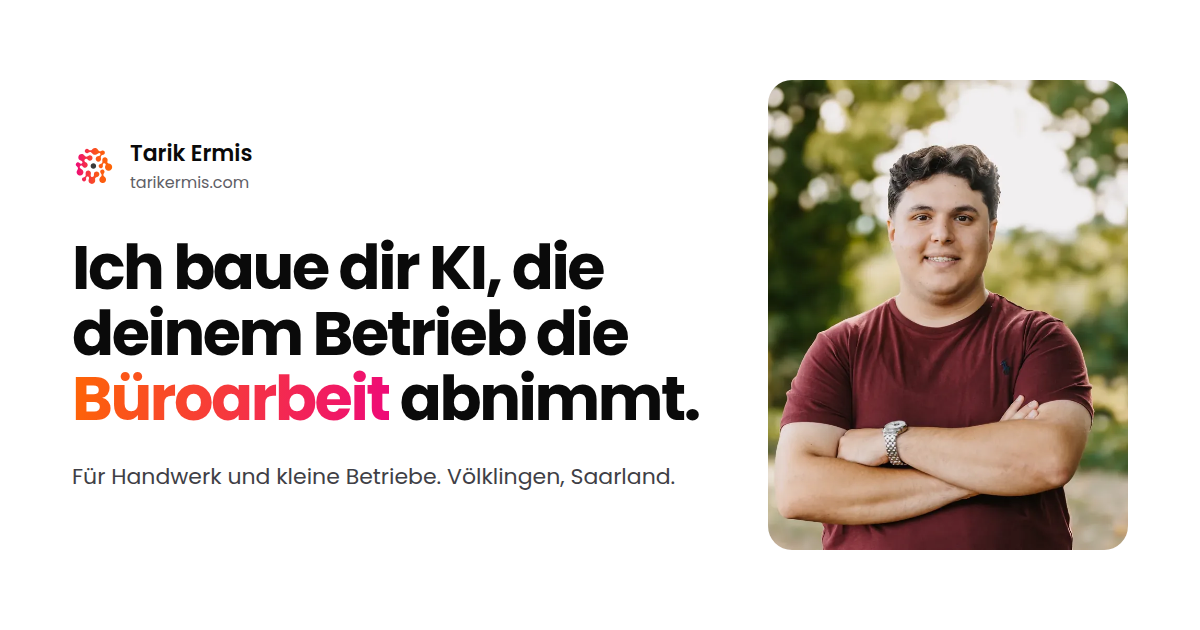
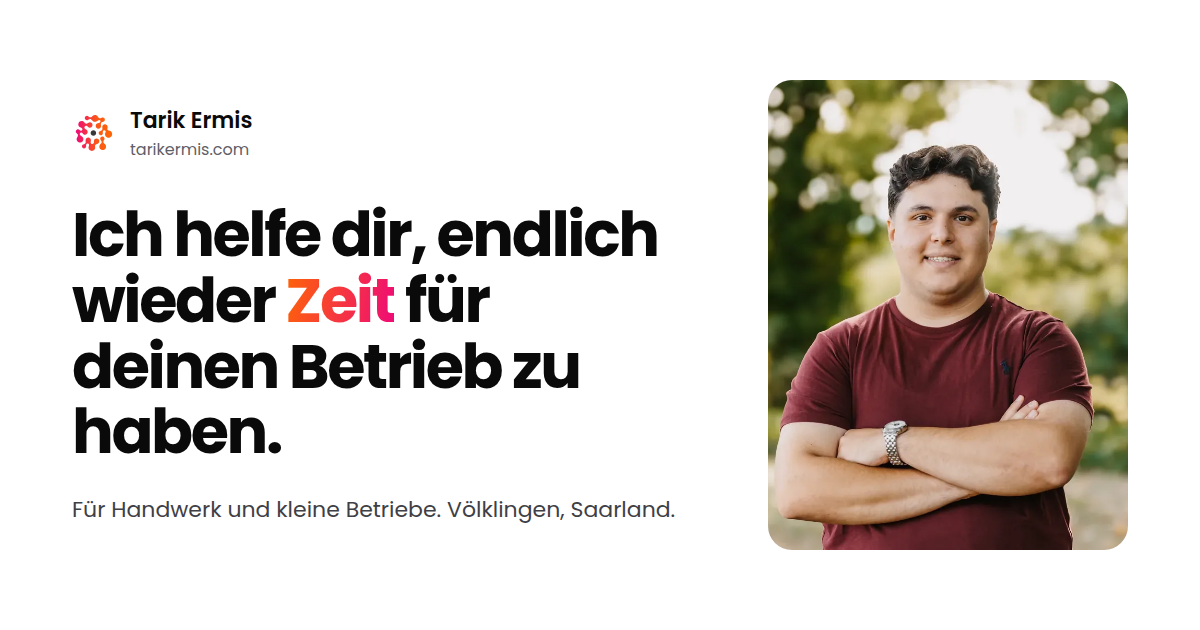
Lead with getting time back, fix anchor offsets, headings without orphans
AI is described as a tool, not the headline. Anchor jumps land under
the header, headings avoid single-word last lines, and the social card
carries the new headline.

Changed region(s): [[0.0617, 0.3317, 0.5858, 0.8444], [0.0617, 0.181, 0.2158, 0.3016]]

diff --git a/src/data/practice.ts b/src/data/practice.ts
@@ -400,16 +400,16 @@ export const copy: Record<Locale, Copy> = {
     alternateName: 'English',
     legalPath: '/de/impressum/',
     seo: {
-      title: 'Tarik Ermis · KI-Agenten und Automatisierung für Handwerk und KMU',
-      description: 'Ich baue KI-Helfer und Automatisierungen, die Handwerks- und kleinen Betrieben die Büroarbeit abnehmen. Mit Referenzen, Ablauf und einem Bauplan für deinen Betrieb.',
+      title: 'Tarik Ermis · Weniger Büroarbeit für Handwerk und kleine Betriebe',
+      description: 'Ich nehme Handwerks- und kleinen Betrieben Anrufe, Mails, Angebote und Belege ab, mit Software und KI als Werkzeug. Mit Referenzen und einem Bauplan für deinen Betrieb.',
     },
     skip: 'Zum Inhalt springen',
     nav: { plan: 'Bauplan', work: 'Referenzen', services: 'Leistungen', process: 'Ablauf', about: 'Über mich', cta: 'Projekt anfragen', menu: 'Menü' },
     hero: {
-      titleBefore: 'Ich baue dir KI, die deinem Betrieb die ',
-      titleAccent: 'Büroarbeit',
-      titleAfter: ' abnimmt.',
-      intro: 'Ich bin Tarik aus Völklingen und arbeite für Handwerks- und kleine Betriebe. Ein Programm übernimmt dann Anrufe, Mails, Angebote und Belege. Es arbeitet mit deiner Software zusammen. Was rausgeht, gibst du frei.',
+      titleBefore: 'Ich helfe dir, endlich wieder ',
+      titleAccent: 'Zeit',
+      titleAfter: ' für deinen Betrieb zu haben.',
+      intro: 'Ich bin Tarik aus Völklingen und arbeite für Handwerks- und kleine Betriebe. Ich nehme dir Anrufe, Mails, Angebote und Belege ab, mit der Software, die du schon hast. KI ist dabei nur ein Werkzeug. Was zählt, ist das Ergebnis, und was rausgeht, gibst du frei.',
       primary: 'Bauplan für meinen Betrieb',
       secondary: 'Referenzen ansehen',
       place: 'Völklingen, Saarland · vor Ort oder remote',
@@ -547,16 +547,16 @@ export const copy: Record<Locale, Copy> = {
     alternateName: 'Deutsch',
     legalPath: '/legal/',
     seo: {
-      title: 'Tarik Ermis · AI agents and automation for trades and small businesses',
-      description: 'I build AI assistants and automations that take office work off trade and small businesses. With case studies, how a project runs and a build plan for your business.',
+      title: 'Tarik Ermis · Less office work for trades and small businesses',
+      description: 'I take calls, emails, quotes and receipts off trade and small businesses, with software and AI as the tool. With case studies and a build plan for your business.',
     },
     skip: 'Skip to content',
     nav: { plan: 'Build plan', work: 'Work', services: 'Services', process: 'Process', about: 'About', cta: 'Start a project', menu: 'Menu' },
     hero: {
-      titleBefore: 'I build AI that takes the ',
-      titleAccent: 'office work',
-      titleAfter: ' off your business.',
-      intro: 'I’m Tarik from Völklingen in Germany, and I work for trade and small businesses. A program then takes over calls, emails, quotes and receipts. It works with your software. You approve what goes out.',
+      titleBefore: 'I help you finally get your ',
+      titleAccent: 'time',
+      titleAfter: ' back.',
+      intro: 'I’m Tarik from Völklingen in Germany, and I work for trade and small businesses. I take calls, emails, quotes and receipts off your hands, using the software you already have. AI is just a tool. What counts is the result, and you approve what goes out.',
       primary: 'Build plan for my business',
       secondary: 'See the work',
       place: 'Völklingen, Saarland · on site or remote',

diff --git a/src/styles/practice.css b/src/styles/practice.css
@@ -26,9 +26,13 @@
   letter-spacing: -0.02em;
 }
 
-.pp h1,
-.pp h2 {
+.pp h1 {
   text-wrap: balance;
+}
+
+.pp h2,
+.pp h3 {
+  text-wrap: pretty;
 }
 
 .pp p,
@@ -266,7 +270,7 @@
 .pp-section,
 .pp-planner,
 .pp-contact {
-  scroll-margin-top: 72px;
+  scroll-margin-top: calc(-1 * var(--pp-section));
   padding-top: var(--pp-section);
 }
 
@@ -399,7 +403,6 @@
 /* Lead case */
 .pp-lead-case {
   display: grid;
-  scroll-margin-top: 88px;
   gap: 32px;
   padding-block: 28px 40px;
   border-top: 1px solid var(--pp-ink);
@@ -489,7 +492,6 @@
 
 .pp-case {
   display: flex;
-  scroll-margin-top: 88px;
   flex-direction: column;
   gap: 12px;
 }
@@ -533,7 +535,6 @@
 /* Own product */
 .pp-product {
   display: grid;
-  scroll-margin-top: 88px;
   gap: 32px;
   padding-block: 40px;
   border-top: 1px solid var(--pp-line);
@@ -568,7 +569,6 @@
 /* Enterprise */
 .pp-enterprise {
   display: grid;
-  scroll-margin-top: 88px;
   gap: 16px;
   padding-top: 40px;
   border-top: 1px solid var(--pp-line);

diff --git a/design/og-card.html b/design/og-card.html
@@ -31,7 +31,7 @@
   <body>
     <div>
       <div class="mark"><img src="../public/assets/n3tz-mark.svg" alt="" /><div>Tarik Ermis<small>tarikermis.com</small></div></div>
-      <h1>Ich baue dir KI, die deinem Betrieb die <span>Büroarbeit</span> abnimmt.</h1>
+      <h1>Ich helfe dir, endlich wieder <span>Zeit</span> für deinen Betrieb zu haben.</h1>
       <p>Für Handwerk und kleine Betriebe. Völklingen, Saarland.</p>
     </div>
     <div class="portrait"><img src="../public/assets/tarik-2026-09-720.webp" alt="" /></div>
